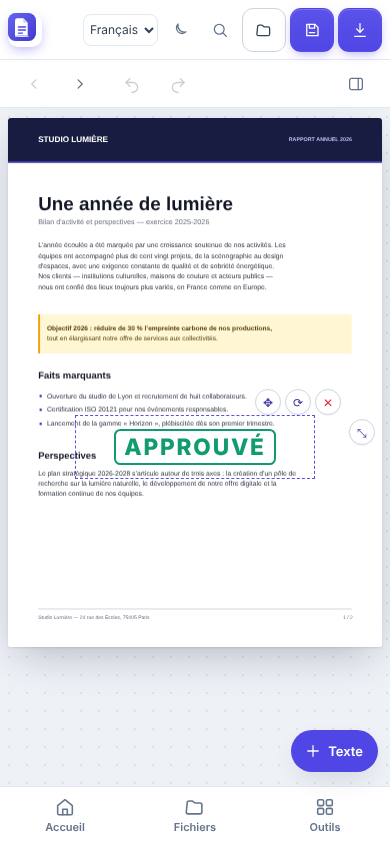
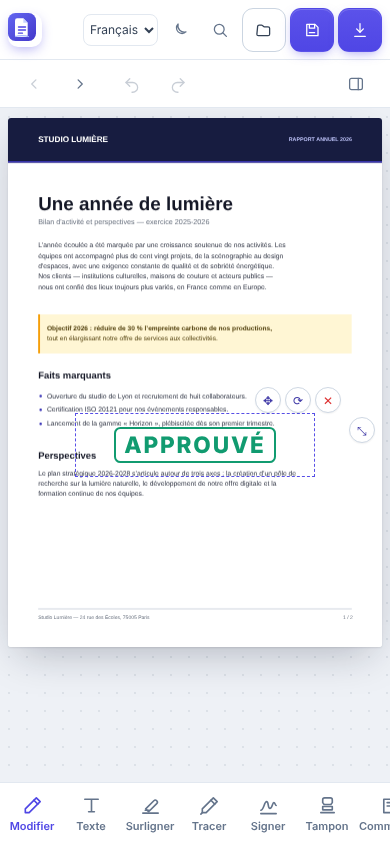
Barre d'outils du document (Modifier, Texte, Surligner, Tracer, Signer, Tampon…) + version compacte pendant la modification
Claude-Session: https://claude.ai/code/session_01XLHuCdA6PizWJ9BPTvHzcC

diff --git a/src/main.js b/src/main.js
@@ -135,6 +135,7 @@ const els = {
   formatbar: $('formatbar'),
   fmtSize: $('fmtSize'),
   fmtFont: $('fmtFont'),
+  docDock: $('docDock'),
   fmtColorBtn: $('fmtColorBtn'),
   fmtSwatch: $('fmtSwatch'),
   fmtColorPop: $('fmtColorPop'),
@@ -713,6 +714,82 @@ function clearOverlay() {
   }
 }
 
+/* ───────── Barre d'outils du document ───────── */
+
+/** Actions de la barre : valide d'abord le texte en cours, puis lance l'outil. */
+function dockAction(id) {
+  if (!state.engine) return;
+  if (id === 'more') {
+    closeActive();
+    routeTo('tools');
+    return;
+  }
+  closeActive();
+  if (state.addMode && id !== 'text') cancelAddMode();
+  switch (id) {
+    case 'edit':
+      closeAnnotate?.();
+      toast(t('dock.editHint'), 'info', { duration: 3200 });
+      break;
+    case 'text':
+      startAddText();
+      break;
+    case 'comment':
+      openAnnotate();
+      activateAnnoTool('note');
+      break;
+    case 'highlight':
+      openAnnotate();
+      activateAnnoTool('highlight');
+      break;
+    case 'draw':
+      openAnnotate();
+      activateAnnoTool('ink');
+      break;
+    case 'sign':
+      openSignTool();
+      break;
+    case 'stamp':
+      openStampTool();
+      break;
+    case 'form':
+      openFormTool();
+      break;
+    case 'pages':
+    case 'ocr':
+      openTool(id);
+      break;
+    default:
+  }
+  updateDock();
+}
+
+function updateDock() {
+  const dock = els.docDock;
+  if (!dock) return;
+  const form = document.getElementById('dockForm');
+  if (form) form.hidden = !state.formFields?.length;
+  dock.querySelectorAll('[data-dock]').forEach((b) => {
+    const id = b.dataset.dock;
+    const active =
+      (id === 'text' && state.addMode) ||
+      (id === 'edit' && !state.addMode && !document.body.classList.contains('annotating'));
+    b.classList.toggle('active', active);
+  });
+}
+
+function bindDock() {
+  // Garde le focus dans le texte en cours : sans cela, le premier appui ferme
+  // le clavier, la mise en page bouge et le clic tombe à côté.
+  els.docDock?.addEventListener('pointerdown', (ev) => {
+    if (ev.target.closest('button')) ev.preventDefault();
+  });
+  els.docDock?.querySelectorAll('[data-dock]').forEach((btn) => {
+    btn.addEventListener('click', () => dockAction(btn.dataset.dock));
+  });
+  updateDock();
+}
+
 const fontsRendered = new Set();
 
 /** Remplit la liste des polices : polices de base, puis le catalogue par famille. */
@@ -1077,6 +1154,7 @@ function bindFormatbar() {
   });
 
   populateFontSelect();
+  bindDock();
   els.fmtFont?.addEventListener('change', () => {
     const value = els.fmtFont.value;
     // Charge la police avant de l'appliquer : l'aperçu et les mesures doivent
@@ -2173,6 +2251,7 @@ function updateTextPanel() {
 }
 
 function updateHint() {
+  updateDock();
   if (!state.engine) return;
   const pd = getPageData(state.pageIndex + 1);
   els.hintCancel.hidden = !state.addMode;
@@ -4528,7 +4607,7 @@ function bindEvents() {
     'pointerdown',
     (e) => {
       if (!state.active) return;
-      if (e.target.closest('.inline-shell, #formatbar, #editbar, dialog, .popover')) return;
+      if (e.target.closest('.inline-shell, #formatbar, #editbar, #docDock, dialog, .popover')) return;
       closeActive();
     },
     true

diff --git a/src/i18n.js b/src/i18n.js
@@ -297,6 +297,18 @@ const DICT = {
     'files.storageError': "Impossible d’accéder au stockage local",
     'files.storageErrorHelp': "Fermez les autres onglets et fenêtres de PDF Studio (y compris l’application installée), puis réessayez.",
     'files.retry': "Réessayer",
+    'dock.edit': "Modifier",
+    'dock.text': "Texte",
+    'dock.comment': "Commenter",
+    'dock.highlight': "Surligner",
+    'dock.draw': "Tracer",
+    'dock.sign': "Signer",
+    'dock.stamp': "Tampon",
+    'dock.form': "Formulaire",
+    'dock.pages': "Pages",
+    'dock.ocr': "OCR",
+    'dock.more': "Plus",
+    'dock.editHint': "Touchez un texte du document pour le modifier.",
     'files.reset': "Réinitialiser le stockage",
     'files.resetText': "Tous les documents enregistrés dans ce navigateur seront supprimés. Cette action est irréversible. Continuer ?",
     'files.wrongFile': "Ce fichier ne correspond pas au document enregistré. Vos modifications sont conservées : choisissez le PDF d’origine.",
@@ -716,6 +728,18 @@ const DICT = {
     'files.storageError': "Cannot access local storage",
     'files.storageErrorHelp': "Close other PDF Studio tabs and windows (including the installed app), then try again.",
     'files.retry': "Try again",
+    'dock.edit': "Edit",
+    'dock.text': "Text",
+    'dock.comment': "Comment",
+    'dock.highlight': "Highlight",
+    'dock.draw': "Draw",
+    'dock.sign': "Sign",
+    'dock.stamp': "Stamp",
+    'dock.form': "Form",
+    'dock.pages': "Pages",
+    'dock.ocr': "OCR",
+    'dock.more': "More",
+    'dock.editHint': "Tap any text in the document to edit it.",
     'files.reset': "Reset storage",
     'files.resetText': "All documents saved in this browser will be deleted. This cannot be undone. Continue?",
     'files.wrongFile': "This file does not match the saved document. Your edits are kept: pick the original PDF.",
@@ -1135,6 +1159,18 @@ const DICT = {
     'files.storageError': "تعذّر الوصول إلى التخزين المحلي",
     'files.storageErrorHelp': "أغلق علامات التبويب والنوافذ الأخرى لـ PDF Studio (بما فيها التطبيق المثبت) ثم أعد المحاولة.",
     'files.retry': "إعادة المحاولة",
+    'dock.edit': "تعديل",
+    'dock.text': "نص",
+    'dock.comment': "تعليق",
+    'dock.highlight': "تمييز",
+    'dock.draw': "رسم",
+    'dock.sign': "توقيع",
+    'dock.stamp': "ختم",
+    'dock.form': "نموذج",
+    'dock.pages': "الصفحات",
+    'dock.ocr': "التعرف",
+    'dock.more': "المزيد",
+    'dock.editHint': "اضغط على أي نص في المستند لتعديله.",
     'files.reset': "إعادة تعيين التخزين",
     'files.resetText': "سيتم حذف جميع المستندات المحفوظة في هذا المتصفح. لا يمكن التراجع. هل تريد المتابعة؟",
     'files.wrongFile': "هذا الملف لا يطابق المستند المحفوظ. تعديلاتك محفوظة: اختر ملف PDF الأصلي.",

diff --git a/src/style.css b/src/style.css
@@ -4389,3 +4389,119 @@ body.annotating .annobar {
   text-overflow: ellipsis;
   backdrop-filter: blur(4px);
 }
+
+
+/* ───────── Barre d'outils du document (style lecteur PDF) ───────── */
+.docdock {
+  flex: 0 0 auto;
+  display: none;
+  align-items: stretch;
+  gap: 1px;
+  height: calc(62px + env(safe-area-inset-bottom));
+  padding: 0 3px env(safe-area-inset-bottom);
+  overflow-x: auto;
+  overscroll-behavior-x: contain;
+  scrollbar-width: none;
+  background: var(--panel);
+  border-top: 1px solid var(--line);
+  z-index: 30;
+}
+.docdock::-webkit-scrollbar {
+  display: none;
+}
+.dockitem {
+  flex: 0 0 auto;
+  min-width: 58px;
+  display: flex;
+  flex-direction: column;
+  align-items: center;
+  justify-content: center;
+  gap: 3px;
+  padding: 0 2px;
+  border: 0;
+  background: transparent;
+  color: var(--muted);
+  font: 600 11px/1.2 var(--font);
+  cursor: pointer;
+  border-radius: 12px;
+}
+.dockitem[hidden] {
+  display: none;
+}
+.dockitem svg {
+  width: 23px;
+  height: 23px;
+}
+.dockitem.active {
+  color: var(--accent);
+}
+.dockitem:active {
+  background: color-mix(in srgb, var(--accent) 12%, transparent);
+}
+/* Dans le document, la barre d'outils remplace la navigation du bas. */
+body[data-route='doc'] .docdock {
+  display: flex;
+}
+body[data-route='doc'] .tabbar {
+  display: none;
+}
+body.annotating .docdock,
+body.form-open .docdock {
+  display: none;
+}
+/* Pendant la modification d'un texte : version compacte, au-dessus de la barre de mise en forme. */
+body.editing .docdock {
+  display: flex;
+  position: fixed;
+  left: 50%;
+  transform: translateX(-50%);
+  bottom: calc(var(--kb-offset, 0px) + 74px + env(safe-area-inset-bottom));
+  width: min(720px, calc(100vw - 12px));
+  height: 44px;
+  padding: 3px 4px;
+  border: 1px solid var(--line);
+  border-radius: 14px;
+  box-shadow: var(--shadow-lg);
+  background: color-mix(in srgb, var(--panel) 94%, transparent);
+  backdrop-filter: blur(14px);
+  -webkit-backdrop-filter: blur(14px);
+  z-index: 79;
+}
+body.editing .dockitem {
+  flex-direction: row;
+  min-width: 0;
+  gap: 5px;
+  padding: 0 10px;
+  font-size: 12px;
+}
+body.editing .dockitem svg {
+  width: 18px;
+  height: 18px;
+}
+body.editing .dock-extra {
+  display: none;
+}
+
+/* Compact : icônes seules, pour que Signer et Tampon restent visibles sans défiler. */
+body.editing .dockitem {
+  flex: 1 1 0;
+  min-width: 40px;
+  padding: 0;
+  justify-content: center;
+}
+body.editing .dockitem > span:last-child {
+  display: none;
+}
+body.editing .dockitem svg {
+  width: 21px;
+  height: 21px;
+}
+/* « Texte » est dans la barre d'outils : le bouton flottant fait doublon. */
+body[data-route='doc'] .fab {
+  display: none;
+}
+@media (min-width: 700px) {
+  body:not(.editing) .docdock {
+    justify-content: center;
+  }
+}

diff --git a/index.html b/index.html
@@ -495,6 +495,20 @@
       <!-- ══════════════ NAVIGATION BASSE ══════════════ -->
       <div class="diag-badge" id="diagBadge" hidden aria-live="off"></div>
 
+  <nav class="docdock" id="docDock" aria-label="Outils du document">
+        <button class="dockitem" type="button" data-dock="edit" aria-label="Modifier" title="Modifier"><span data-icon="edit"></span><span data-i18n="dock.edit">Modifier</span></button>
+        <button class="dockitem" type="button" data-dock="text" aria-label="Texte" title="Texte"><span data-icon="text"></span><span data-i18n="dock.text">Texte</span></button>
+        <button class="dockitem" type="button" data-dock="highlight" aria-label="Surligner" title="Surligner"><span data-icon="highlight"></span><span data-i18n="dock.highlight">Surligner</span></button>
+        <button class="dockitem" type="button" data-dock="draw" aria-label="Tracer" title="Tracer"><span data-icon="pen"></span><span data-i18n="dock.draw">Tracer</span></button>
+        <button class="dockitem" type="button" data-dock="sign" aria-label="Signer" title="Signer"><span data-icon="signature"></span><span data-i18n="dock.sign">Signer</span></button>
+        <button class="dockitem" type="button" data-dock="stamp" aria-label="Tampon" title="Tampon"><span data-icon="stamp"></span><span data-i18n="dock.stamp">Tampon</span></button>
+        <button class="dockitem" type="button" data-dock="comment" aria-label="Commenter" title="Commenter"><span data-icon="note"></span><span data-i18n="dock.comment">Commenter</span></button>
+        <button class="dockitem" type="button" data-dock="form" aria-label="Formulaire" title="Formulaire" id="dockForm" hidden><span data-icon="checkSquare"></span><span data-i18n="dock.form">Formulaire</span></button>
+        <button class="dockitem dock-extra" type="button" data-dock="pages" aria-label="Pages" title="Pages"><span data-icon="layers"></span><span data-i18n="dock.pages">Pages</span></button>
+        <button class="dockitem dock-extra" type="button" data-dock="ocr" aria-label="OCR" title="OCR"><span data-icon="scan"></span><span data-i18n="dock.ocr">OCR</span></button>
+        <button class="dockitem dock-extra" type="button" data-dock="more" aria-label="Plus" title="Plus"><span data-icon="grid"></span><span data-i18n="dock.more">Plus</span></button>
+      </nav>
+
   <nav class="tabbar" id="tabbar" aria-label="Navigation principale">
         <button class="tabitem" data-route="home"><span data-icon="home"></span><span data-i18n="nav.home">Accueil</span></button>
         <button class="tabitem" data-route="files"><span data-icon="folder"></span><span data-i18n="nav.files">Fichiers</span></button>

diff --git a/tests/e2e/dock.spec.js b/tests/e2e/dock.spec.js
@@ -1,0 +1,57 @@
+import { expect, test } from '@playwright/test';
+
+async function openDemo(page) {
+  await page.addInitScript(() => {
+    try {
+      localStorage.setItem('pdf-studio-onboarded', '1');
+      localStorage.setItem('pdf-studio-lang', 'fr');
+    } catch {
+      /* stockage indisponible */
+    }
+  });
+  await page.goto('/', { waitUntil: 'domcontentloaded' });
+  await expect(page.locator('#homeDemoText')).toBeVisible();
+  await page.evaluate(() => document.querySelector('#homeDemoText').click());
+  await page.locator('.line-block').first().waitFor({ state: 'visible', timeout: 60_000 });
+  await page.waitForTimeout(700);
+}
+
+const inViewport = (page, sel) =>
+  page.locator(sel).evaluate((el) => {
+    const r = el.getBoundingClientRect();
+    return r.width > 0 && r.left >= 0 && r.right <= window.innerWidth && r.bottom <= window.innerHeight;
+  });
+
+test.describe('Barre d’outils du document', () => {
+  test('remplace la navigation et garde Signer et Tampon visibles', async ({ page }) => {
+    await openDemo(page);
+    await expect(page.locator('#docDock')).toBeVisible();
+    await expect(page.locator('#tabbar')).toBeHidden();
+    for (const id of ['edit', 'text', 'highlight', 'draw', 'sign', 'stamp']) {
+      expect(await inViewport(page, `#docDock [data-dock=${id}]`), id).toBe(true);
+    }
+  });
+
+  test('pendant la modification, Signer ouvre la feuille de signature en un seul appui', async ({ page }) => {
+    await openDemo(page);
+    await page.locator('.line-block').nth(2).tap();
+    await page.waitForTimeout(600);
+    await expect(page.locator('body')).toHaveClass(/editing/);
+    expect(await inViewport(page, '#docDock [data-dock=sign]')).toBe(true);
+    await page.locator('#docDock [data-dock=sign]').tap();
+    await expect(page.locator('#sheet')).toBeVisible();
+    await expect(page.locator('#sheetTitle')).toContainText('signer');
+    await expect(page.locator('body')).not.toHaveClass(/editing/);
+  });
+
+  test('Tampon, Surligner et Texte sont lançables depuis la barre', async ({ page }) => {
+    await openDemo(page);
+    await page.locator('#docDock [data-dock=stamp]').tap();
+    await expect(page.locator('#sheet')).toBeVisible();
+    await page.locator('#sheet .icon-btn, #sheetClose').first().tap().catch(() => {});
+    await page.evaluate(() => document.querySelector('#sheetBackdrop')?.click());
+    await page.waitForTimeout(500);
+    await page.locator('#docDock [data-dock=highlight]').tap();
+    await expect(page.locator('body')).toHaveClass(/annotating/);
+  });
+});

diff --git a/docs/verifications-v2.5.md b/docs/verifications-v2.5.md
@@ -188,3 +188,11 @@ assertion en échec. Chaque test concerné repasse seul. La CI
 - Aperçu à l'écran et PDF exporté utilisent la même police ; repli sur Noto Sans pour un caractère absent (arabe, etc.).
 - Un PDF texte dont la police est dans le catalogue (ex. Roboto) est reconnu et réédité avec cette police.
 - Non fait : choix automatique de la police d'un **scan** (le texte n'est qu'une image) ; la police par défaut d'une ligne OCR reste Helvetica, à changer dans la liste.
+
+## Barre d'outils du document (v2.6, étape 1)
+
+- Dans le document, la barre du bas (Accueil/Fichiers/Outils) est remplacée par une barre d'outils : Modifier, Texte, Surligner, Tracer, Signer, Tampon, Commenter, Formulaire (si le PDF en a), Pages, OCR, Plus (→ écran Outils).
+- Pendant la modification d'un texte : version compacte (icônes seules) au-dessus de la barre de mise en forme ; un appui sur Signer, Tampon, etc. valide le texte puis ouvre l'outil, en un seul appui.
+- Le bouton flottant « + Texte » disparaît du document (doublon).
+- Vérifié : 103 tests unitaires et 58 tests Chromium/Samsung (profil 390 px : Signer et Tampon visibles sans défiler).
+- Non fait (étapes suivantes) : menu du document façon Adobe (⋮ : Exporter, Compresser, Mot de passe, Imprimer), signatures enregistrées en un geste, reconnaissance automatique de la police d'un scan.
